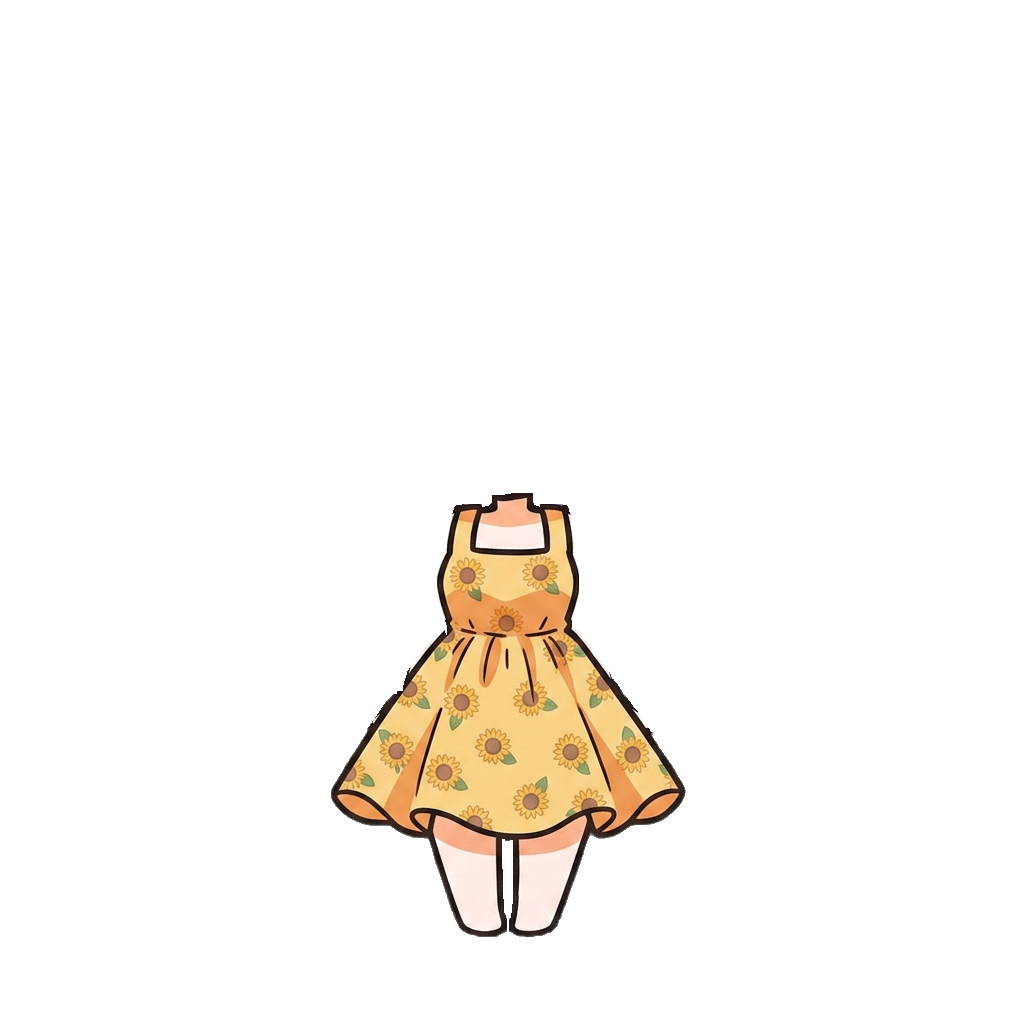
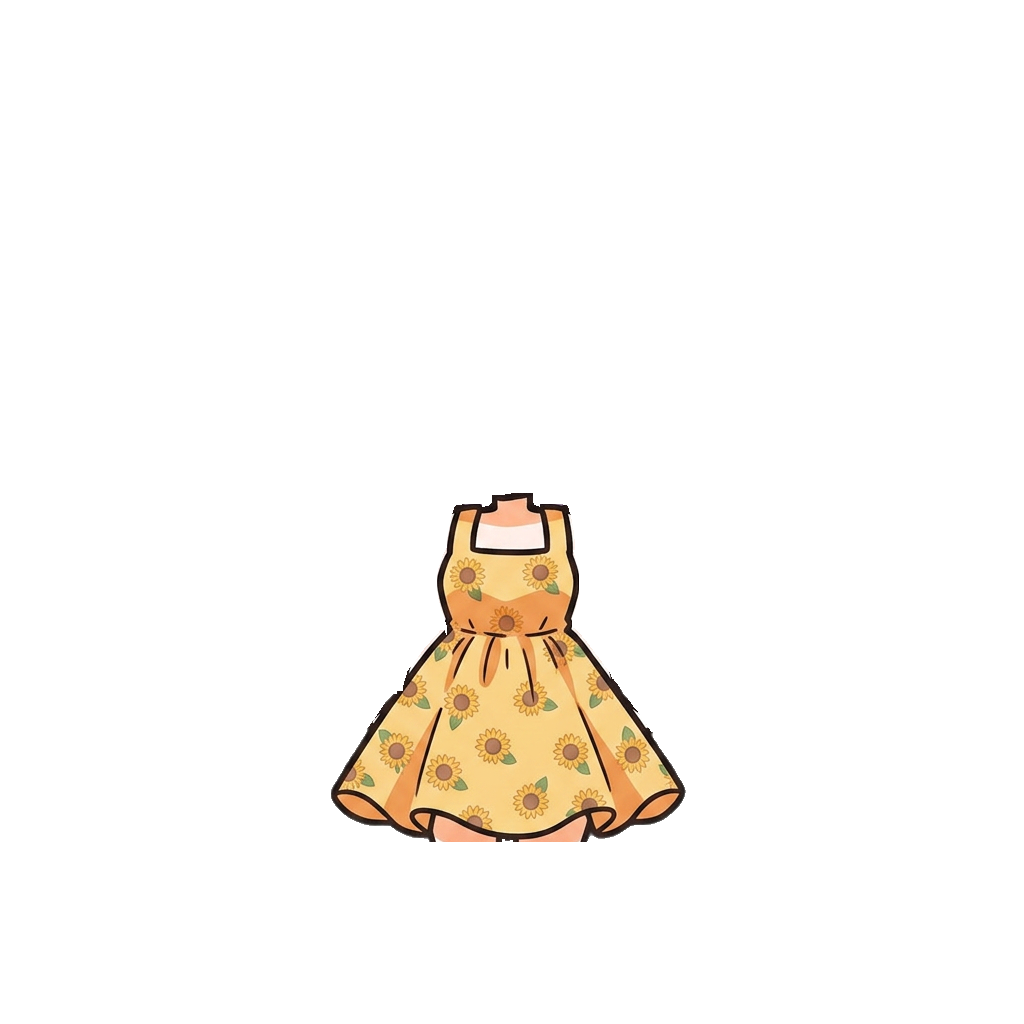
Trim long garments back to their hems
A render does not stop drawing where the garment stops: below the hem it
redraws the legs and feet, close to the master but not equal to it, and
those pixels came into the layer. While the feet were bare that cost
nothing — they repainted the same feet. With shoes it costs the shoe: a
garment sits at z=20 and a shoe at z=5, so the yukata's redrawn feet
covered 30% of a sneaker with bare skin, putting a foot in front of the
sandal it was meant to be wearing.

HEM_TRIM cuts each layer a few pixels below where its own fabric ends, on a
row measured from the fabric's colour rather than guessed, low enough to
keep the hem outline that is drawn past the last fabric pixel. Coverage
falls to 14.5% for the yukata and 9.4% for its male render — the hem now
breaks over the shoe the way the jeans do — and to nothing for the sundress.

Barefoot the trim is an improvement too: the base's own rounded feet show
through instead of the boxier ones the yukata render drew over them.

Changed region(s): [[0.4062, 0.8125, 0.5938, 0.9375]]

diff --git a/web/index.html b/web/index.html
@@ -16,7 +16,7 @@
 <meta name="apple-mobile-web-app-title" content="Moodmate">
 <link rel="manifest" href="manifest.webmanifest">
 <link rel="apple-touch-icon" href="assets/appicon-192.png">
-<link rel="stylesheet" href="styles.css?v=447993fc72">
+<link rel="stylesheet" href="styles.css?v=72e13e0394">
 <script>
   /* Runs before first paint, so a chosen theme doesn't arrive a frame late as
      a white flash. app.js reads the same key and owns it from there. */
@@ -160,7 +160,7 @@
 <div class="lightbox" id="lightbox" hidden></div>
 <div class="lightbox char-zoom" id="char-zoom" hidden></div>
 
-<script src="i18n.js?v=447993fc72"></script>
-<script src="app.js?v=447993fc72"></script>
+<script src="i18n.js?v=72e13e0394"></script>
+<script src="app.js?v=72e13e0394"></script>
 </body>
 </html>

diff --git a/web/sw.js b/web/sw.js
@@ -5,7 +5,7 @@
 // Stamped by export_web.py from a hash of the built assets. It must change
 // whenever any asset does, because the image rule below is cache-first and a
 // cache keyed by a constant name is never invalidated.
-const CACHE = "moodmate-447993fc72";
+const CACHE = "moodmate-72e13e0394";
 const SHELL = [
   ".", "index.html", "styles.css", "app.js",
   "manifest.webmanifest", "assets/items.json",

diff --git a/process_item.py b/process_item.py
@@ -477,6 +477,19 @@ def main(render_path, name, master_name="base_char_master.png", dark_override=No
             for cid, n in lcomps[1:]:
                 if n < biggest * 0.15:
                     mask &= ~(llab == cid)
+    # A hem is where a garment stops, but a render does not stop drawing there:
+    # below it the legs and feet get redrawn, close to the master but not equal
+    # to it, and those pixels come into the layer. They cost nothing while the
+    # feet are bare — they repaint the same feet — but a garment layer sits at
+    # z=20 and a shoe at z=5, so redrawn feet cover the shoe underneath. Cutting
+    # the layer a few pixels below the hem hands the feet back to the base,
+    # where footwear can reach them.
+    if name in HEM_TRIM:
+        cut = HEM_TRIM[name]
+        dropped = int(mask[cut:].sum())
+        mask[cut:] = False
+        print("hem trim: dropped %d px below y=%d" % (dropped, cut))
+
     out = T.copy()
     out[..., 3] = np.where(mask, T[..., 3], 0)
     layer = Image.fromarray(out.astype("uint8"))
@@ -538,6 +551,12 @@ def main(render_path, name, master_name="base_char_master.png", dark_override=No
 # ink) survives into the layer. Auditing all 21 that way found these three and
 # nothing else — the rest of the low scores are shading that falls on the
 # character, such as hair under a brim, and is excluded correctly.
+# Long garments, and the row a few pixels below where each one's own fabric
+# stops: yukata 897, its male render 890, the sundress's skirt 838. Measured
+# from the fabric's own colour rather than guessed, and set low enough to keep
+# the hem's outline, which is drawn below the last fabric pixel.
+HEM_TRIM = {"yukata": 903, "yukata_male": 896, "sundress": 842}
+
 ACCESSORIES = {"roundglasses"}
 
 DARK_OVERRIDES = {"male_gakuran": 55, "sailor": 55, "male_tie_shirt": 55,
